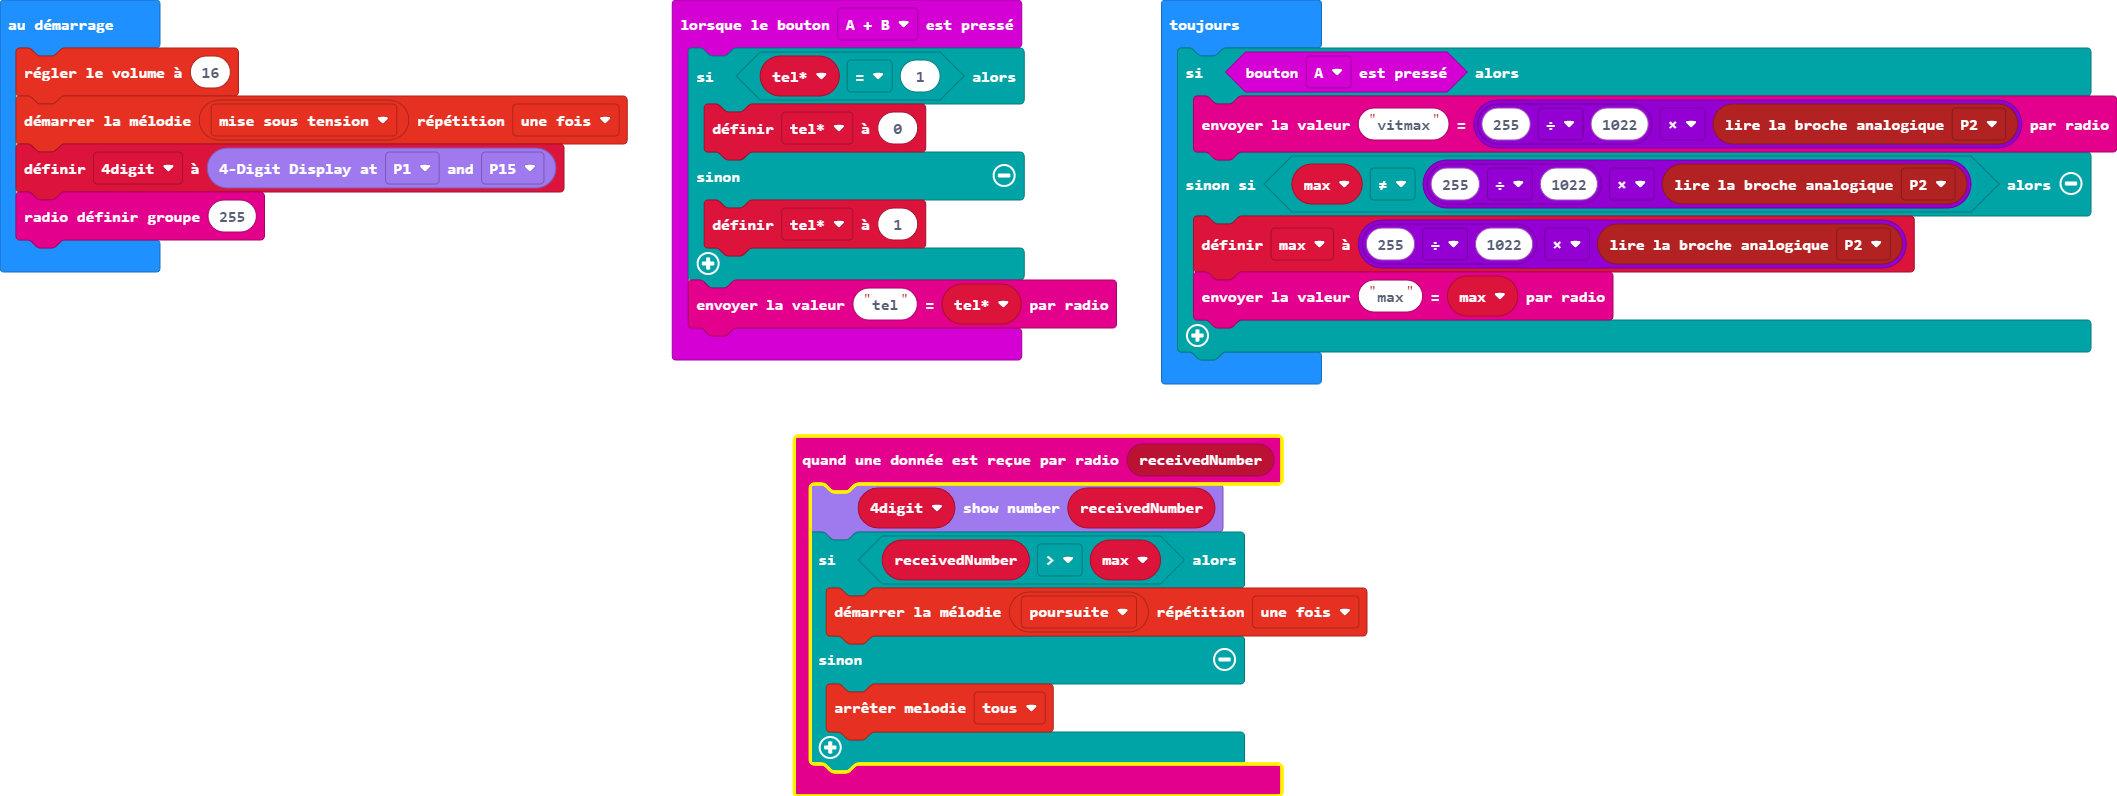
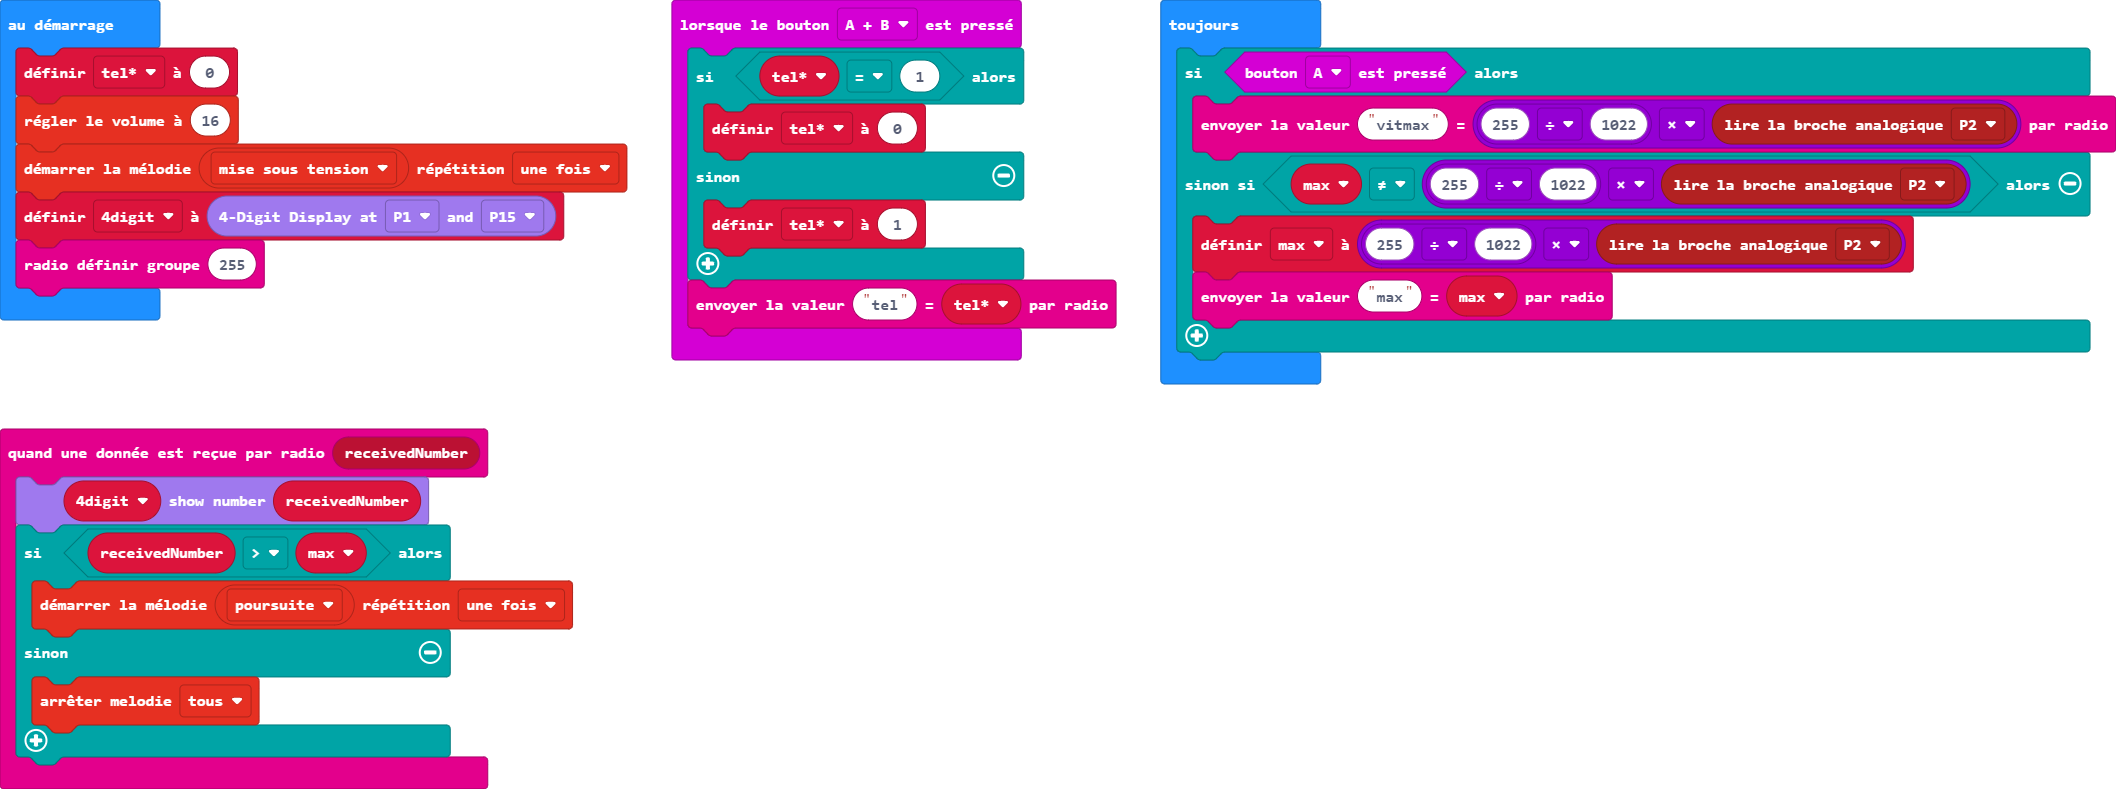
debugt tel

diff --git a/main.ts b/main.ts
@@ -14,9 +14,10 @@ input.onButtonPressed(Button.AB, function () {
     }
     radio.sendValue("tel", tel)
 })
-let tel = 0
 let max = 0
 let _4digit: grove.TM1637 = null
+let tel = 0
+tel = 0
 music.setVolume(16)
 music.startMelody(music.builtInMelody(Melodies.PowerUp), MelodyOptions.Once)
 _4digit = grove.createDisplay(DigitalPin.P1, DigitalPin.P15)

diff --git a/main.py b/main.py
@@ -1,0 +1,33 @@
+def on_received_number(receivedNumber):
+    _4digit.show(receivedNumber)
+    if receivedNumber > max2:
+        music.start_melody(music.built_in_melody(Melodies.CHASE), MelodyOptions.ONCE)
+    else:
+        music.stop_melody(MelodyStopOptions.ALL)
+radio.on_received_number(on_received_number)
+
+def on_button_pressed_ab():
+    global tel
+    if tel == 1:
+        tel = 0
+    else:
+        tel = 1
+    radio.send_value("tel", tel)
+input.on_button_pressed(Button.AB, on_button_pressed_ab)
+
+tel = 0
+max2 = 0
+_4digit: grove.TM1637 = None
+music.set_volume(16)
+music.start_melody(music.built_in_melody(Melodies.POWER_UP), MelodyOptions.ONCE)
+_4digit = grove.create_display(DigitalPin.P1, DigitalPin.P15)
+radio.set_group(255)
+
+def on_forever():
+    global max2
+    if input.button_is_pressed(Button.A):
+        radio.send_value("vitmax", 255 / 1022 * pins.analog_read_pin(AnalogPin.P2))
+    elif max2 != 255 / 1022 * pins.analog_read_pin(AnalogPin.P2):
+        max2 = 255 / 1022 * pins.analog_read_pin(AnalogPin.P2)
+        radio.send_value("max", max2)
+basic.forever(on_forever)
